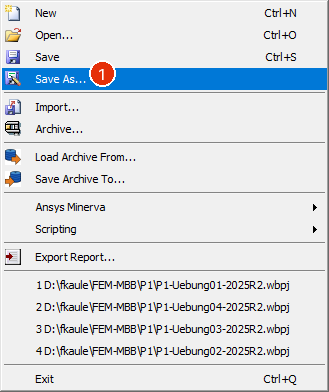
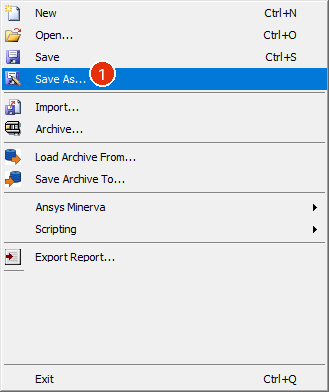
Anleitungen: ohne Bilder mit Bildknopf je Schritt, Abstände, kein schwebender Weiter-Knopf
- ohne Bilder zeigt dieselbe Klick-Anleitung nur als Text, jeder Schritt hat einen Knopf Bild;
  Kurzanleitungen entfallen auf Seiten mit Klick-Anleitung (bleiben als Rückfall ohne JavaScript)
- Schritte der Klick-Anleitung mit Abstand und Trennlinie
- schwebender Weiter-Knopf des Steppers entfernt (Zurück/Weiter steht am Seitenende)
- Speichern-Anleitung: Ordnerleiste bis auf Dokumente und zuletzt geöffnete Dateien ausgeblendet,
  Dateiname P1_Aussenwand als Vorschlag

Changed region(s): [[0.0912, 0.7041, 0.8815, 0.7959], [0.0912, 0.8878, 0.8815, 0.9184], [0.0912, 0.8265, 0.8815, 0.8571]]

diff --git a/docs/assets/js/anleitung-schalter.js b/docs/assets/js/anleitung-schalter.js
@@ -1,8 +1,10 @@
 // Anleitung "mit Bildern" / "ohne Bilder": ein Schalter, der auf allen Seiten gilt (localStorage).
-// Mit Bildern: Klick-Anleitungen (details.tut-embed) und Elemente mit class="anl-bild" (z.B. GIF).
-// Ohne Bilder: Kurzanleitungen (Admonition, deren Titel mit "Kurzanleitung" beginnt).
-// Ausgeblendet wird nur, wenn eine Seite beides hat; einzelne Anleitungen bleiben immer sichtbar.
-// Muss nach tutorials.js geladen werden (das ersetzt <tutorial> durch details.tut-embed).
+// Beide Stellungen zeigen dieselbe Klick-Anleitung (details.tut-embed, von tutorials.js aus
+// <tutorial slug> erzeugt). Ohne Bilder sind die Bilder eingeklappt; jeder Schritt hat einen Knopf
+// "Bild", der genau sein Bild zeigt. Elemente mit class="anl-bild" (z.B. GIF) gibt es nur mit Bildern.
+// Kurzanleitungen (Titel beginnt mit "Kurzanleitung") entfallen auf Seiten mit Klick-Anleitung,
+// sie bleiben als Rückfall stehen, falls JavaScript fehlt.
+// Muss nach tutorials.js geladen werden.
 (function () {
   'use strict';
   var KEY = 'kurs-anleitung';
@@ -11,16 +13,38 @@
   function lesen() { try { return localStorage.getItem(KEY) || 'bilder'; } catch (e) { return 'bilder'; } }
   function merken(m) { try { localStorage.setItem(KEY, m); } catch (e) { /* nur diese Seite */ } }
 
+  // Je Schritt einen Knopf "Bild" einsetzen, sobald tutorials.js die Schritte geladen hat
+  function knoepfe(det) {
+    Array.prototype.forEach.call(det.querySelectorAll('.tut-steps > li'), function (li) {
+      if (li.querySelector('.anl-bildknopf') || !li.querySelector('img.tut-img')) return;
+      var b = document.createElement('button');
+      b.type = 'button';
+      b.className = 'anl-bildknopf';
+      b.setAttribute('aria-expanded', 'false');
+      b.textContent = 'Bild';
+      b.addEventListener('click', function () {
+        var offen = li.classList.toggle('bild-offen');
+        b.setAttribute('aria-expanded', offen ? 'true' : 'false');
+        b.textContent = offen ? 'Bild ausblenden' : 'Bild';
+      });
+      var cap = li.querySelector('.tut-cap');
+      cap.parentNode.insertBefore(b, cap.nextSibling);
+    });
+  }
+
   function init() {
     var inhalt = document.querySelector('.md-content article') || document.body;
-    var text = Array.prototype.filter.call(inhalt.querySelectorAll('details, .admonition'), function (d) {
+    var tuts = Array.prototype.slice.call(inhalt.querySelectorAll('details.tut-embed'));
+    if (!tuts.length) return;
+    Array.prototype.forEach.call(inhalt.querySelectorAll('details, .admonition'), function (d) {
       var t = d.querySelector('summary, .admonition-title');
-      return t && /^\s*Kurzanleitung/.test(t.textContent);
+      if (t && /^\s*Kurzanleitung/.test(t.textContent)) d.classList.add('anl-doppelt');
     });
-    var bild = Array.prototype.slice.call(inhalt.querySelectorAll('details.tut-embed, .anl-bild'));
-    if (!text.length || !bild.length) return;
-    text.forEach(function (d) { d.classList.add('anl-text'); });
-    bild.forEach(function (d) { d.classList.add('anl-bild'); });
+    tuts.forEach(function (det) {
+      det.open = true;
+      knoepfe(det);
+      new MutationObserver(function () { knoepfe(det); }).observe(det, { childList: true, subtree: true });
+    });
 
     var leiste = document.createElement('div');
     leiste.className = 'anl-schalter';
@@ -29,9 +53,8 @@
     leiste.innerHTML = '<span class="anl-label">Anleitung</span>' + MODI.map(function (m) {
       return '<button type="button" data-modus="' + m[0] + '">' + m[1] + '</button>';
     }).join('');
-    var erstes = [].concat(text, bild).sort(function (a, b) {
-      return a.compareDocumentPosition(b) & Node.DOCUMENT_POSITION_FOLLOWING ? -1 : 1;
-    })[0];
+    var erstes = [].concat(tuts, Array.prototype.slice.call(inhalt.querySelectorAll('.anl-bild')))
+      .sort(function (a, b) { return a.compareDocumentPosition(b) & Node.DOCUMENT_POSITION_FOLLOWING ? -1 : 1; })[0];
     erstes.parentNode.insertBefore(leiste, erstes);
 
     function setzen(modus) {
@@ -39,7 +62,6 @@
       Array.prototype.forEach.call(leiste.querySelectorAll('button'), function (b) {
         b.setAttribute('aria-pressed', b.getAttribute('data-modus') === modus ? 'true' : 'false');
       });
-      (modus === 'bilder' ? bild : text).forEach(function (d) { if (d.tagName === 'DETAILS') d.open = true; });
     }
     leiste.addEventListener('click', function (ev) {
       var m = ev.target.getAttribute && ev.target.getAttribute('data-modus');

diff --git a/docs/assets/styles/anleitung-schalter.css b/docs/assets/styles/anleitung-schalter.css
@@ -11,5 +11,24 @@
 }
 .md-typeset .anl-schalter button[aria-pressed="true"] { background: var(--kurs-btn-bg, #009ee3); color: var(--kurs-btn-fg, #fff); }
 .md-typeset .anl-schalter button:focus-visible { outline: 2px solid var(--kurs-accent, #009ee3); outline-offset: 2px; }
-body[data-anleitung="bilder"] .md-typeset .anl-text,
-body[data-anleitung="ohne"] .md-typeset .anl-bild { display: none; }
+/* Kurzanleitung entfällt, wo es eine Klick-Anleitung gibt; ohne Bilder: GIF weg, Bilder je Schritt per Knopf */
+body[data-anleitung] .md-typeset .anl-doppelt,
+body[data-anleitung="ohne"] .md-typeset .anl-bild,
+body[data-anleitung="ohne"] .md-typeset .tut-steps > li:not(.bild-offen) img.tut-img { display: none; }
+body[data-anleitung="bilder"] .md-typeset .anl-bildknopf { display: none; }
+.md-typeset .anl-bildknopf {
+  font: inherit; font-size: .68rem; font-weight: 600; cursor: pointer; margin-top: .3rem;
+  padding: .1rem .6rem; border-radius: 999px; border: 1px solid var(--kurs-line-2, #cdd6dc);
+  background: var(--kurs-surface, #fff); color: var(--kurs-accent-ink, #0070a6);
+}
+.md-typeset .anl-bildknopf:hover { border-color: var(--kurs-accent, #009ee3); }
+.md-typeset .anl-bildknopf:focus-visible { outline: 2px solid var(--kurs-accent, #009ee3); outline-offset: 2px; }
+html:root body[data-anleitung="ohne"] .tut-steps > li:not(:last-child) { margin-bottom: .9rem; padding-bottom: .9rem; }
+
+/* Klick-Anleitungen: Schritte klar trennen, Bild gehört sichtbar zum Text darüber
+   (höhere Spezifität als modern.css, das diese Regeln ursprünglich setzt) */
+html:root body .tut-steps > li:not(:last-child) {
+  margin-bottom: 1.5rem; padding-bottom: 1.5rem; border-bottom: 1px solid var(--kurs-line, #e2e8ec);
+}
+html:root body .tut-steps > li:not(:last-child)::after { bottom: -1.45rem; }
+html:root body .md-typeset img.tut-img { margin: .45rem 0 0; }

diff --git a/docs/assets/js/modern-ui.js b/docs/assets/js/modern-ui.js
@@ -420,31 +420,7 @@
     if (act && nav.scrollWidth > nav.clientWidth + 40) {
       nav.scrollLeft = act.offsetLeft - nav.clientWidth / 2 + act.clientWidth / 2;
     }
-    // Schwebender Weiter-Button: der nächste Schritt ist immer sichtbar,
-    // ohne ans Seitenende zu scrollen. Blendet aus, sobald das Seitenende
-    // im Blick ist (dort steht ggf. der ausgeschriebene Weiter-Button).
-    if (idx < grp.slugs.length - 1) {
-      var nHref = grp.slugs[idx + 1] === '' ? (hit.isIndex ? './' : '../')
-                                            : up + grp.slugs[idx + 1] + '/';
-      var fl = document.createElement('a');
-      fl.className = 'wf-next-float';
-      fl.href = nHref;
-      fl.innerHTML = 'Weiter: ' + grp.labels[idx + 1] + ' <span aria-hidden="true">→</span>';
-      document.body.appendChild(fl);
-      var inner = document.querySelector('.md-content__inner');
-      if (inner) {
-        var sent = document.createElement('div');
-        sent.style.cssText = 'height:1px';
-        inner.appendChild(sent);
-        var check = function () {
-          fl.classList.toggle('hidden',
-            sent.getBoundingClientRect().top < window.innerHeight + 8);
-        };
-        window.addEventListener('scroll', check, { passive: true });
-        window.addEventListener('resize', check);
-        check();
-      }
-    }
+    // Kein schwebender Weiter-Button mehr: Zurück/Weiter steht am Seitenende (page-nav).
   }
 
   // --- 4b) Varianten-Tabs über dem Stepper ---------------------------------
